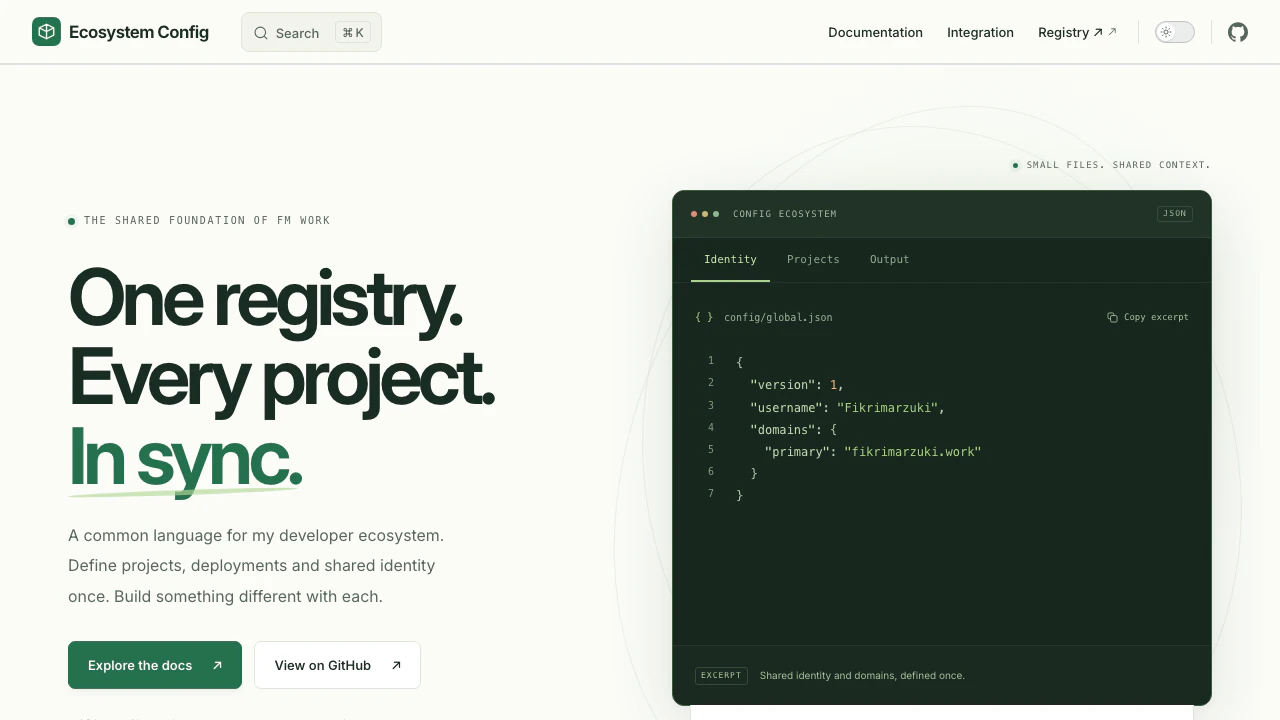
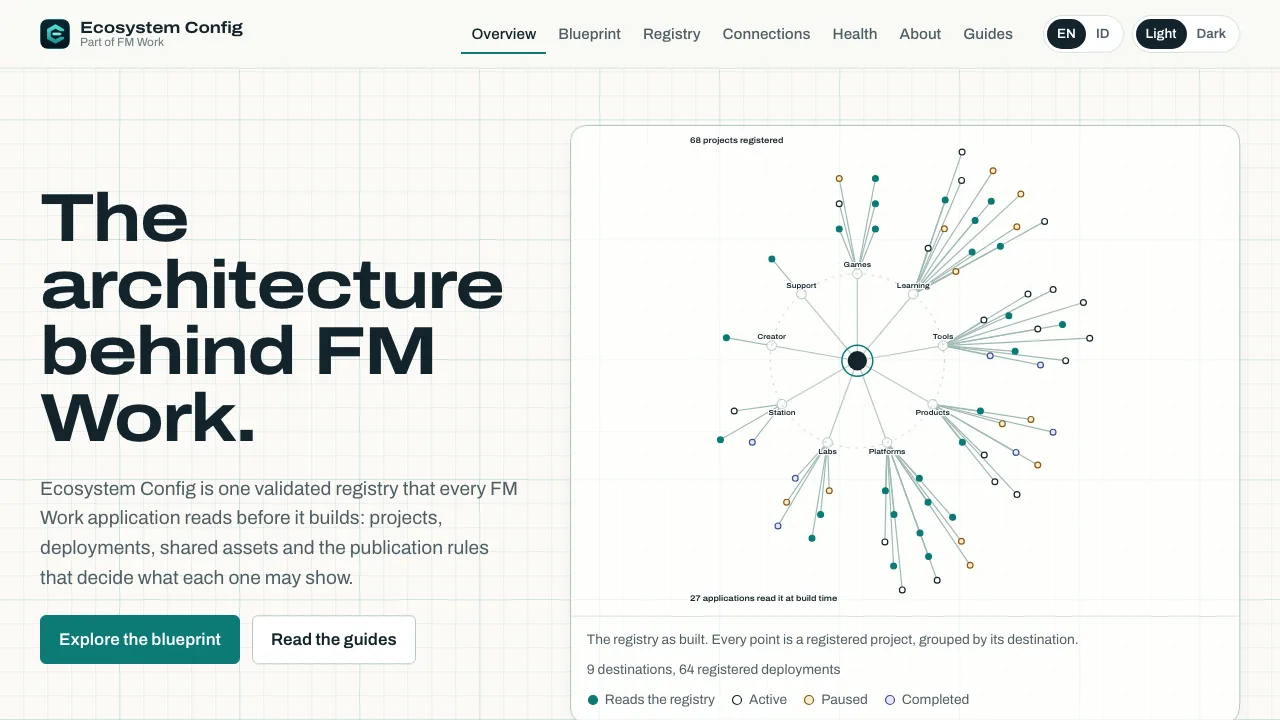
feat: refresh the Ecosystem Config thumbnail from the redesigned site
Replace assets/projects/configEcosystem/thumbnail.webp with an unaltered
1280x720 capture of the new Overview (WebP q82, 57,038 bytes, SHA-256
811b9bd5...f8d60a6). The path is unchanged, so the project record and its
source fingerprint are unchanged.

Re-review only the configEcosystem A-Z grant with the official review helper
and Gateway's presentation pipeline: its presentationFingerprint changes to
sha256:656c117e...aab52. Every other grant, eligibility decision and
membership is byte-identical. Pinned grant hashes restore the prior value to
prove it. The Ecosystem Skills thumbnail stays deferred.

diff --git a/docs/showcase-publication-approvals.md b/docs/showcase-publication-approvals.md
@@ -312,3 +312,16 @@ presentation fingerprints): Quillio, Xpenz, Zevorama, Havernia, BuddyChamp, Beac
 Academy, Keranjoo, Urusaha and Yunivisi. Vynote's concept membership, eligibility and grant were replaced by its project ones (same id, no duplicate). Hearthside's
 presentation fingerprint alone was re-approved for its released link and new thumbnail; the other 57 existing grants are byte-identical. Totals: 74 memberships
 and grants, 37 eligibility decisions. See [Registry refresh 2026-11](registry-refresh-2026-11.md) for the full record and publication sequence.
+
+## EC-W5 — Ecosystem Config thumbnail (2026-11-22)
+
+The Ecosystem Config website was redesigned (Living Blueprint, Vite + React in `site/`). Its canonical thumbnail,
+`assets/projects/configEcosystem/thumbnail.webp`, is now an unaltered 1280×720 capture of the production build's Overview:
+light theme, English, reduced motion, WebP quality 82, 57,038 bytes, SHA-256
[1 lines of base64/hex data omitted]
+source fingerprint are unchanged.
+
+Gateway's presentation digest binds the artwork bytes, so exactly one grant was re-reviewed with `review-showcase.mjs` and
+Gateway's real presentation pipeline: `configEcosystem`'s `presentationFingerprint` moved from
+`sha256:973f7ea2…0b900` to `sha256:656c117e…aab52`. Every other grant, eligibility decision and membership is byte-identical.
+The Ecosystem Skills thumbnail stays deferred until its own redesign.

diff --git a/docs/registry-refresh-2026-11.md b/docs/registry-refresh-2026-11.md
@@ -48,7 +48,7 @@ Notes:
 ## Thumbnails
 
 All are unaltered 1280×720 viewport captures of public pages, light appearance where the site offers it, reduced motion, encoded as WebP quality 82. Captured 2026-11-21.
-No credentials, personal data or pairing codes appear. Ecosystem Config and Ecosystem Skills thumbnails are deliberately **unchanged** (their sites are being redesigned).
+No credentials, personal data or pairing codes appear. Ecosystem Config and Ecosystem Skills thumbnails were deliberately left **unchanged** here (their sites were being redesigned); Ecosystem Config's was refreshed in EC-W5 (see the showcase approvals guide).
 
 | Id | Captured page | Bytes | SHA-256 |
 | --- | --- | ---: | --- |
